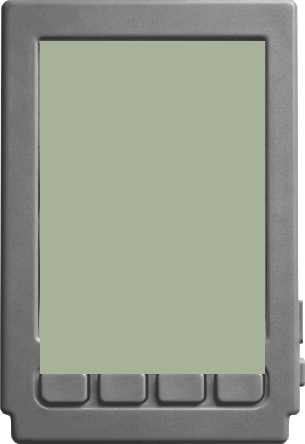
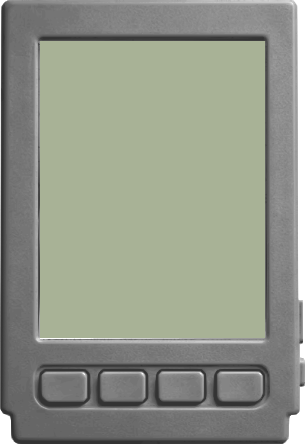
The glass stops where the opening does
A few stray transparent pixels near the keys were pulling the bounding box
down over the bezel; the tool now takes the longest run of full-width rows.

Changed region(s): [[0.118, 0.7613, 0.8852, 0.8491]]

diff --git a/tools/build_organiser_case.py b/tools/build_organiser_case.py
@@ -54,11 +54,33 @@ def screen_hole(img):
             nx, ny = x + dx, y + dy
             if 0 <= nx < w and 0 <= ny < h and clear(nx, ny) and not seen[ny][nx]:
                 seen[ny][nx] = True; q.append((nx, ny))
-    holes = [(x, y) for y in range(h) for x in range(w) if clear(x, y) and not seen[y][x]]
-    if not holes:
+    # Rows of the hole, then the longest run of FULL-WIDTH rows. A drawing has
+    # specks - a few stray transparent pixels near the keys - and taking the
+    # bounding box of everything stretched the glass down over the bezel
+    # (owner, 2026-09-12: "the glas goes to far down").
+    rows = {}
+    for y in range(h):
+        xs = [x for x in range(w) if clear(x, y) and not seen[y][x]]
+        if xs:
+            rows[y] = (min(xs), max(xs), len(xs))
+    if not rows:
         raise SystemExit("no screen opening found in the drawing")
-    xs = [p[0] for p in holes]; ys = [p[1] for p in holes]
-    return min(xs), min(ys), max(xs) - min(xs) + 1, max(ys) - min(ys) + 1
+    widest = max(r[2] for r in rows.values())
+    best = run = None
+    for y in sorted(rows):
+        if rows[y][2] >= widest * 0.98:
+            run = run or [y, y]
+            run[1] = y
+        elif run:
+            if not best or run[1] - run[0] > best[1] - best[0]:
+                best = run
+            run = None
+    if run and (not best or run[1] - run[0] > best[1] - best[0]):
+        best = run
+    top, bottom = best
+    x0 = min(rows[y][0] for y in range(top, bottom + 1))
+    x1 = max(rows[y][1] for y in range(top, bottom + 1))
+    return x0, top, x1 - x0 + 1, bottom - top + 1
 
 def main():
     art = Image.open(SRC).convert("RGBA")
